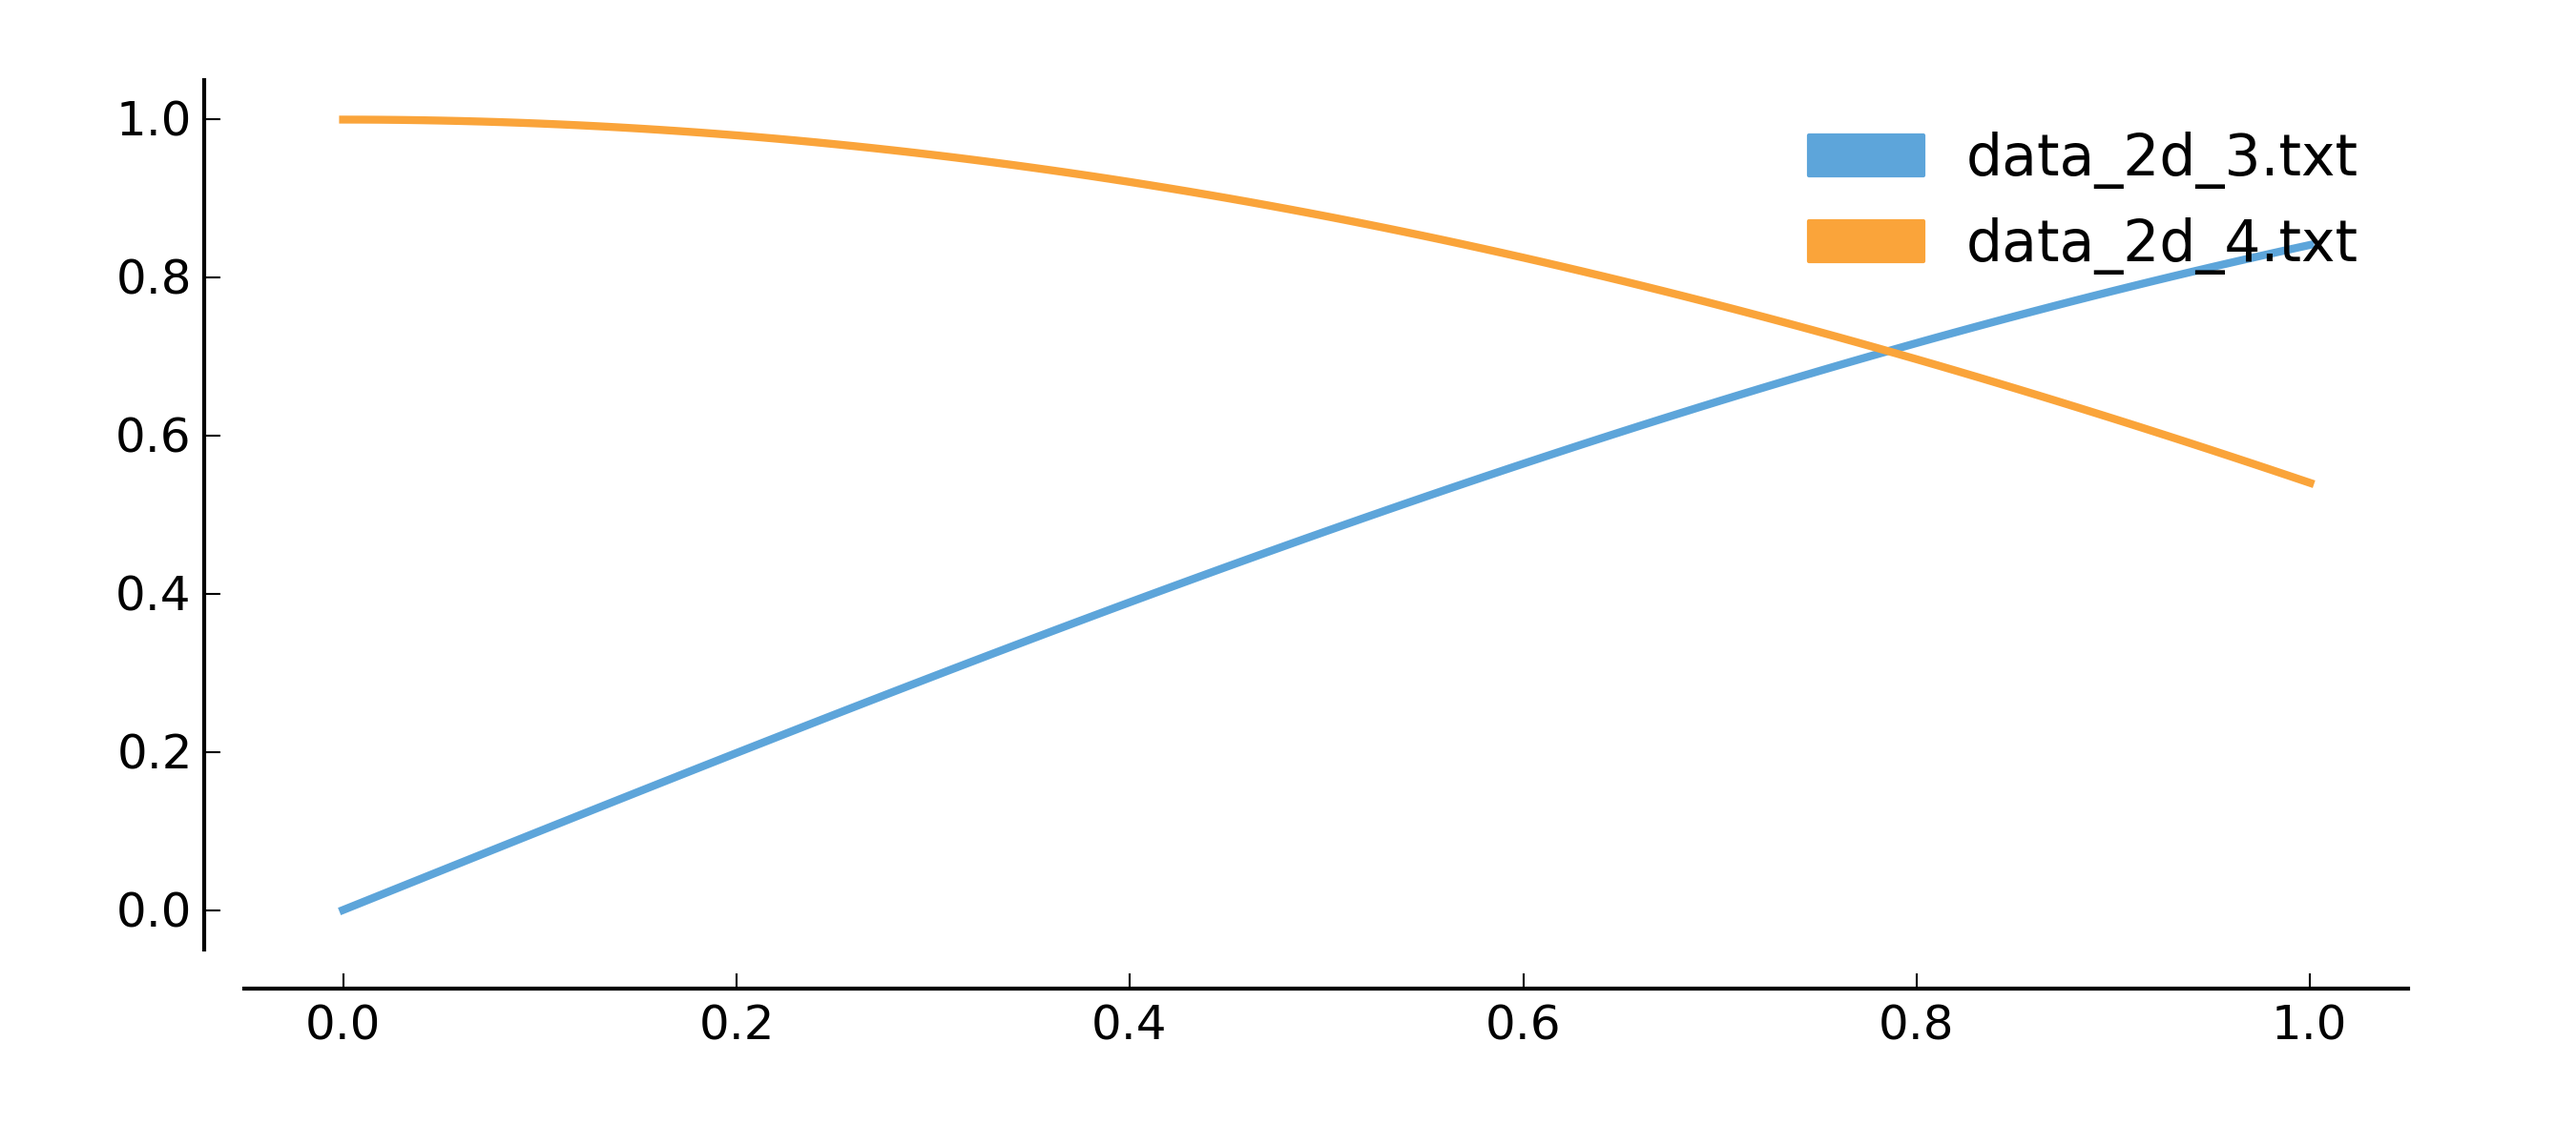
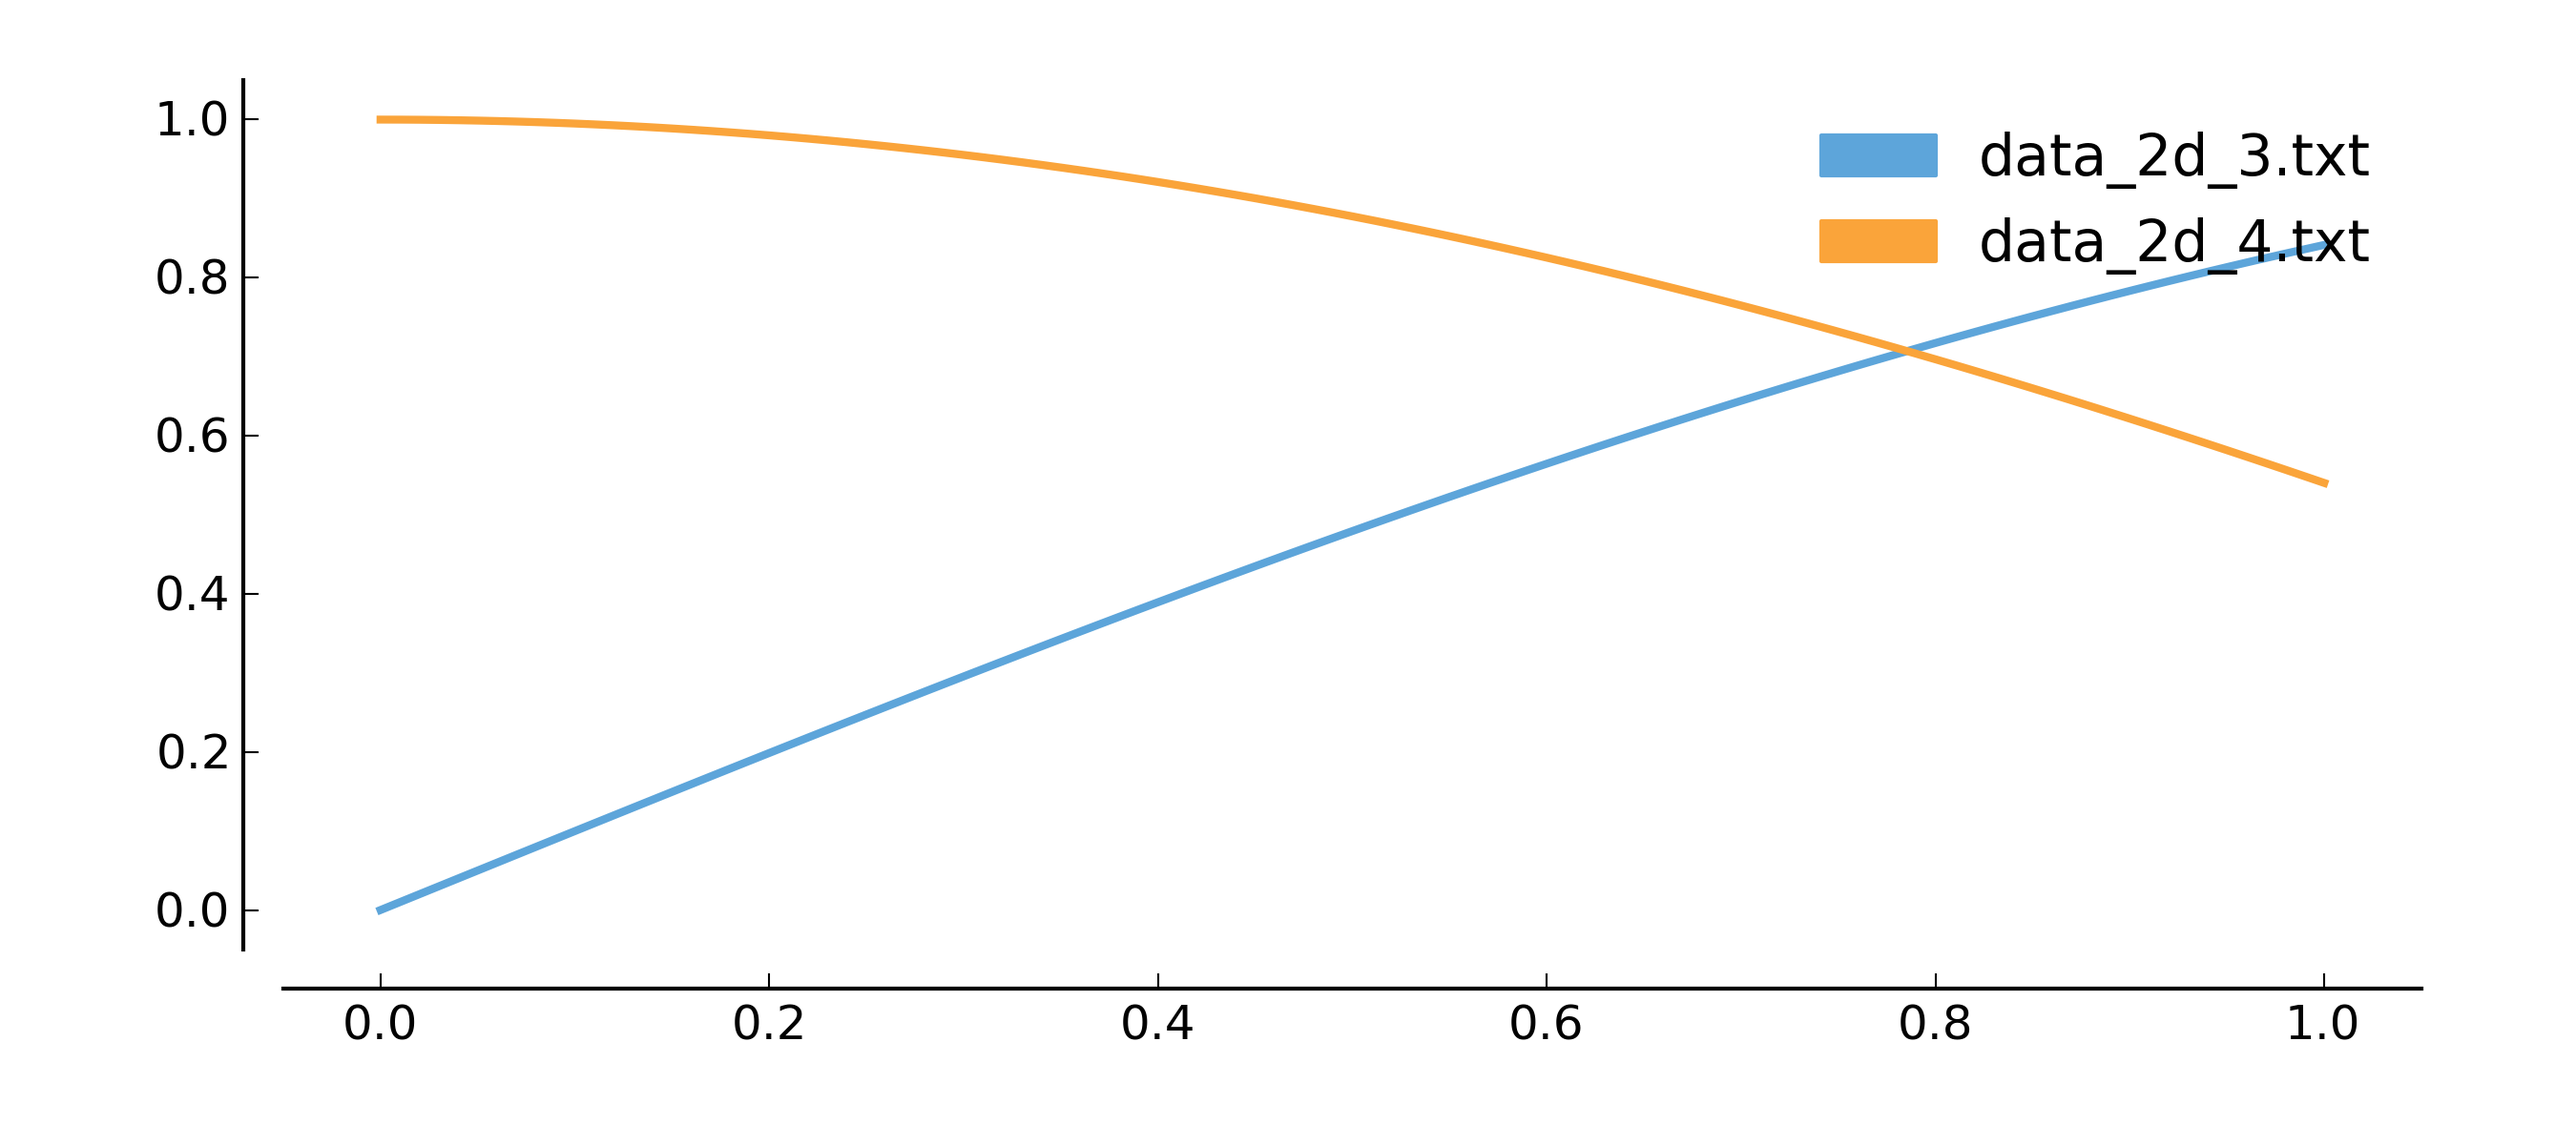
tweaking axis size for xlabeling issue

diff --git a/src/quick_plot.py b/src/quick_plot.py
@@ -290,8 +290,8 @@ def EstablishAxes(fig, args):
   Raises:
     ValueError: If an unknown spine location is passed.
   """
-  args.axLeft = 0.095
-  args.axWidth = 0.84
+  args.axLeft = 0.11
+  args.axWidth = 0.83
   args.axBottom = 0.17
   args.axHeight = 0.76
   ax = fig.add_axes([args.axLeft, args.axBottom,
